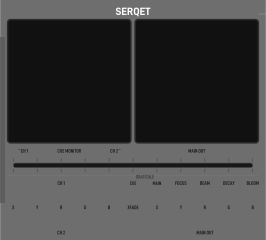
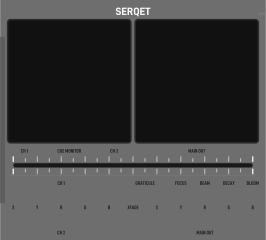
feat(Serqet): calibrate focus/decay ranges, update defaults, 4mm buttons, and styled crossfader (v1.3.1)

diff --git a/scratch/generate_serqet_panel.py b/scratch/generate_serqet_panel.py
@@ -86,7 +86,7 @@ def generate_serqet_panel(skin):
     # Module Title: Fixed Y = 8.000 mm (D-DIN-Bold 16 pt, centered)
     svg.append(render_text(ddin_bold, 'SERQET', mid_x, 8.000, 16.0, title_color))
     # Version Tag: Fixed Y = 8.000 mm (Quicksand-Regular 4.5 pt, X = W - 2.15 mm)
-    svg.append(render_text(quicksand, 'v1.3.0', panel_w - 2.15, 8.000, 4.5, version_color))
+    svg.append(render_text(quicksand, 'v1.3.1', panel_w - 2.15, 8.000, 4.5, version_color))
     
     # ── ZONE 2: SIDE-BY-SIDE DUAL CRT SCOPES ──
     # Scope 1 (CUE MONITOR): 66 x 66 mm, 1.5 mm corner radius, Center (37.00, 43.50)
@@ -102,13 +102,9 @@ def generate_serqet_panel(skin):
     svg.append(f'  <rect x="{main_x:.2f}" y="{main_y:.2f}" width="{main_w:.2f}" height="{main_h:.2f}" rx="1.5" ry="1.5" fill="#111111" stroke="{scope_bezel}" stroke-width="0.8" />')
     
     # ── CUE BUTTONS & SCOPE LABELS (Y = 80.00 mm, Y baseline = 81.75 mm) ──
-    # CH 1 cue button: 4x4mm grey round at Center X: 7, Center Y: 80
-    # CH 2 cue button: 4x4mm grey round at Center X: 67, Center Y: 80
-    btn_y = 80.00
+    # CH 1 cue button: Center X: 7, Center Y: 80
+    # CH 2 cue button: Center X: 67, Center Y: 80
     lbl_y = 81.75
-    # Connecting subtle guide lines between cue buttons and labels
-    svg.append(f'  <line x1="9.50" y1="{btn_y:.2f}" x2="10.80" y2="{btn_y:.2f}" stroke="{border_color}" stroke-width="0.4" />')
-    svg.append(f'  <line x1="63.20" y1="{btn_y:.2f}" x2="64.50" y2="{btn_y:.2f}" stroke="{border_color}" stroke-width="0.4" />')
     
     svg.append(render_text(ddin_cond_bold, 'CH 1', 13.00, lbl_y, 8.0, label_color))
     svg.append(render_text(ddin_cond_bold, 'CUE MONITOR', 37.00, lbl_y, 8.0, label_color))
@@ -127,11 +123,22 @@ def generate_serqet_panel(skin):
     svg.append('  <!-- Horizontal Fader Slot Graphic -->')
     svg.append(f'  <rect x="{slot_x0:.2f}" y="{fader_cy - 1.20:.2f}" width="{fader_w:.2f}" height="2.40" rx="1.2" ry="1.2" fill="#181818" stroke="{border_color}" stroke-width="0.3" />')
     
-    # Scale ticks along the fader slot (11 major tick marks at column centers)
-    col_x_coords = [7.000, 19.824, 32.648, 45.472, 58.296, 71.120, 83.944, 96.768, 109.592, 122.416, 135.240]
-    for tx in col_x_coords:
-        svg.append(f'  <line x1="{tx:.3f}" y1="{fader_cy - 3.80:.2f}" x2="{tx:.3f}" y2="{fader_cy - 1.80:.2f}" stroke="{border_color}" stroke-width="0.3" />')
-        svg.append(f'  <line x1="{tx:.3f}" y1="{fader_cy + 1.80:.2f}" x2="{tx:.3f}" y2="{fader_cy + 3.80:.2f}" stroke="{border_color}" stroke-width="0.3" />')
+    # Crossfader scale hash marks: alternating full height (3.0mm) and 2/3 height (2.0mm)
+    # Extremities thicker than the rest. White for Medium/Dark, border_color for Light.
+    fader_hash_color = '#ffffff' if skin['name'] in ['Medium', 'Dark'] else skin['border_color']
+    num_ticks = 21  # 20 intervals of 6.412 mm across 128.24 mm
+    tick_step = fader_w / (num_ticks - 1)  # 6.412 mm
+    for k in range(num_ticks):
+        tx = slot_x0 + k * tick_step
+        is_extremity = (k == 0 or k == num_ticks - 1)
+        is_full_height = (k % 2 == 0)
+        sw = 0.65 if is_extremity else 0.30
+        h_tick = 3.00 if is_full_height else 2.00
+        
+        # Above slot
+        svg.append(f'  <line x1="{tx:.3f}" y1="{fader_cy - 1.80 - h_tick:.2f}" x2="{tx:.3f}" y2="{fader_cy - 1.80:.2f}" stroke="{fader_hash_color}" stroke-width="{sw:.2f}" />')
+        # Below slot
+        svg.append(f'  <line x1="{tx:.3f}" y1="{fader_cy + 1.80:.2f}" x2="{tx:.3f}" y2="{fader_cy + 1.80 + h_tick:.2f}" stroke="{fader_hash_color}" stroke-width="{sw:.2f}" />')
     
     # Delineator Line separating Fader from Knobs/Jacks (Y = 94.00 mm, 10mm above row at 104mm)
     svg.append(f'  <line x1="4.00" y1="93.92" x2="{panel_w - 4.00:.2f}" y2="93.92" stroke="{hi_color}" stroke-width="0.15" />')
@@ -140,11 +147,8 @@ def generate_serqet_panel(skin):
     # ── LABELS ABOVE ROW AT Y = 104 mm (Y baseline: 99.00 mm) ──
     # CH 1 (label) Center X: 32.648
     svg.append(render_text(ddin_cond_bold, 'CH 1', 32.648, 99.00, 8.0, label_color))
-    # GRATICULE (label) Header centered over the two graticule knobs (X = 77.532, Y = 95.6)
-    # with sublabels CUE (71.12) and MAIN (83.944) at Y baseline 99.00
-    svg.append(render_text(ddin_cond, 'GRATICULE', 77.532, 95.60, 7.5, label_color))
-    svg.append(render_text(ddin_cond_bold, 'CUE', 71.120, 99.00, 7.5, label_color))
-    svg.append(render_text(ddin_cond_bold, 'MAIN', 83.944, 99.00, 7.5, label_color))
+    # GRATICULE (label) Center X: 77.532, Y baseline: 99.00 (no CUE or MAIN sub-labels)
+    svg.append(render_text(ddin_cond_bold, 'GRATICULE', 77.532, 99.00, 8.0, label_color))
     
     # CRT Engine Control Labels
     svg.append(render_text(ddin_cond_bold, 'FOCUS', 96.768, 99.00, 8.0, label_color))

diff --git a/src/Serqet.cpp b/src/Serqet.cpp
@@ -131,14 +131,14 @@ struct Serqet : Module {
 		// CRT Emulation Attenuverter Knobs
 		configParam(GRATICULE_CUE_PARAM, 0.0f, 1.0f, 0.25f, "Cue graticule opacity", "%", 0.0f, 100.0f);
 		configParam(GRATICULE_MAIN_PARAM, 0.0f, 1.0f, 0.0f, "Main graticule opacity", "%", 0.0f, 100.0f);
-		// Focus: 0.25mm (0%) to 5.00mm (100%), default 20% (~1.20mm)
-		configParam(FOCUS_PARAM, 0.0f, 1.0f, 0.20f, "Focus", "%", 0.0f, 100.0f);
-		// Beam Intensity: 25% (0%) to 150% (100%), default 60% (100% nominal)
-		configParam(BEAM_PARAM, 0.0f, 1.0f, 0.60f, "Beam intensity", "%", 0.0f, 100.0f);
-		// Phosphor Decay: non-linear tanh afterglow, default 50%
-		configParam(DECAY_PARAM, 0.0f, 1.0f, 0.50f, "Phosphor decay", "%", 0.0f, 100.0f);
-		// Optical Bloom: dual-scale halation and glass scatter, default 50%
-		configParam(BLOOM_PARAM, 0.0f, 1.0f, 0.50f, "Bloom", "%", 0.0f, 100.0f);
+		// Focus: 0.06mm (0%) to 0.725mm (100%), default 40% (~0.33mm)
+		configParam(FOCUS_PARAM, 0.0f, 1.0f, 0.40f, "Focus", "%", 0.0f, 100.0f);
+		// Beam Intensity: 25% (0%) to 150% (100%), default 30%
+		configParam(BEAM_PARAM, 0.0f, 1.0f, 0.30f, "Beam intensity", "%", 0.0f, 100.0f);
+		// Phosphor Decay: non-linear tanh afterglow, max 75%, default 5%
+		configParam(DECAY_PARAM, 0.0f, 1.0f, 0.05f, "Phosphor decay", "%", 0.0f, 100.0f);
+		// Optical Bloom: dual-scale halation and glass scatter, default 30%
+		configParam(BLOOM_PARAM, 0.0f, 1.0f, 0.30f, "Bloom", "%", 0.0f, 100.0f);
 
 		// Horizontal Crossfade Slider & Cue Buttons
 		configParam(CROSSFADE_PARAM, 0.0f, 1.0f, 0.0f, "Crossfade", "%", 0.0f, 100.0f);
@@ -396,8 +396,9 @@ struct SerqetCrtWidget : widget::TransparentWidget {
 
 	void renderCrtSimulation(float focusNorm, float beamNorm, float decayNorm, float bloomNorm) {
 		// 1. Phosphor Afterglow Decay (tanh persistence law from sosci afterglow_decay.frag)
-		float fadeAmount = 0.90f * std::pow(1.0f - decayNorm, 1.8f) + 0.02f;
-		float adjustedAfterglow = (0.2f + decayNorm * 3.0f) * 1.5f;
+		float effectiveDecay = decayNorm * 0.75f;
+		float fadeAmount = 0.90f * std::pow(1.0f - effectiveDecay, 1.8f) + 0.02f;
+		float adjustedAfterglow = (0.2f + effectiveDecay * 3.0f) * 1.5f;
 		float minFade = 0.1f * (1.0f - clamp(adjustedAfterglow / 10.0f, 0.0f, 1.0f));
 
 		for (int i = 0; i < CRT_RES * CRT_RES; i++) {
@@ -421,11 +422,11 @@ struct SerqetCrtWidget : widget::TransparentWidget {
 		}
 
 		// 2. Electron Beam Spot & Intensity Setup
-		// Calibrated Focus: 0.25 mm (0%) to 5.00 mm (100%)
-		float focus_mm = 0.25f + focusNorm * (5.00f - 0.25f);
+		// Calibrated Focus: 0.06 mm (0%) to 0.725 mm (100%)
+		float focus_mm = 0.06f + focusNorm * (0.725f - 0.06f);
 		// Pixels per mm on 66x66 mm box with 256x256 res: 256.0 / 66.0 = 3.878 px/mm
-		float sigma = (focus_mm / 66.0f) * (float)CRT_RES * 0.32f;
-		sigma = std::max(0.40f, sigma);
+		float sigma = (focus_mm / 66.0f) * (float)CRT_RES * 0.40f;
+		sigma = std::max(0.35f, sigma);
 		float inv2Sigma2 = 1.0f / (2.0f * sigma * sigma);
 		float normFactor = 1.0f / (2.0f * 3.14159265f * sigma * sigma);
 
@@ -638,10 +639,10 @@ struct SerqetCrtWidget : widget::TransparentWidget {
 		float cy = h * 0.5f;
 
 		// Read module parameter states
-		float focusVal = module ? module->params[Serqet::FOCUS_PARAM].getValue() : 0.20f;
-		float beamVal = module ? module->params[Serqet::BEAM_PARAM].getValue() : 0.60f;
-		float decayVal = module ? module->params[Serqet::DECAY_PARAM].getValue() : 0.50f;
-		float bloomVal = module ? module->params[Serqet::BLOOM_PARAM].getValue() : 0.50f;
+		float focusVal = module ? module->params[Serqet::FOCUS_PARAM].getValue() : 0.40f;
+		float beamVal = module ? module->params[Serqet::BEAM_PARAM].getValue() : 0.30f;
+		float decayVal = module ? module->params[Serqet::DECAY_PARAM].getValue() : 0.05f;
+		float bloomVal = module ? module->params[Serqet::BLOOM_PARAM].getValue() : 0.30f;
 
 		// Dual Graticule opacities
 		float gratAlpha = 0.0f;
@@ -764,8 +765,8 @@ struct GarmireTrimpot : RoundKnob {
 struct SerqetButton : app::SvgSwitch {
 	SerqetButton() {
 		momentary = true;
-		addFrame(Svg::load(asset::plugin(pluginInstance, "res/button_gray_0.svg")));
-		addFrame(Svg::load(asset::plugin(pluginInstance, "res/button_gray_1.svg")));
+		addFrame(Svg::load(asset::plugin(pluginInstance, "res/button_round_4mm_0.svg")));
+		addFrame(Svg::load(asset::plugin(pluginInstance, "res/button_round_4mm_1.svg")));
 	}
 };
 
